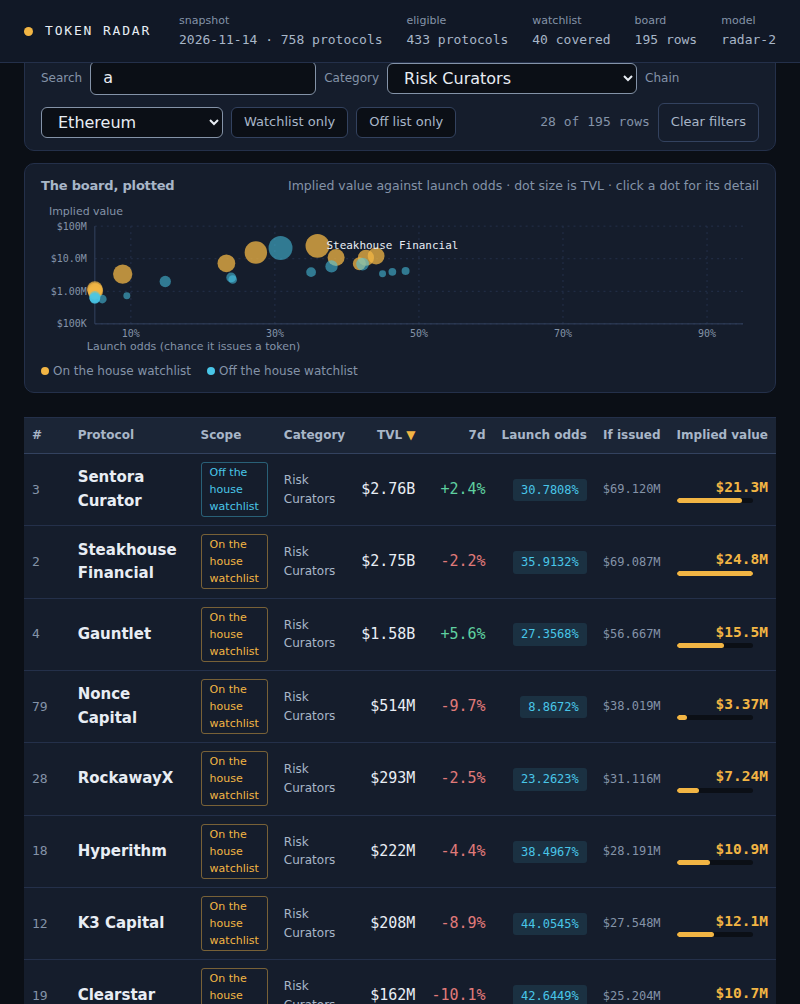
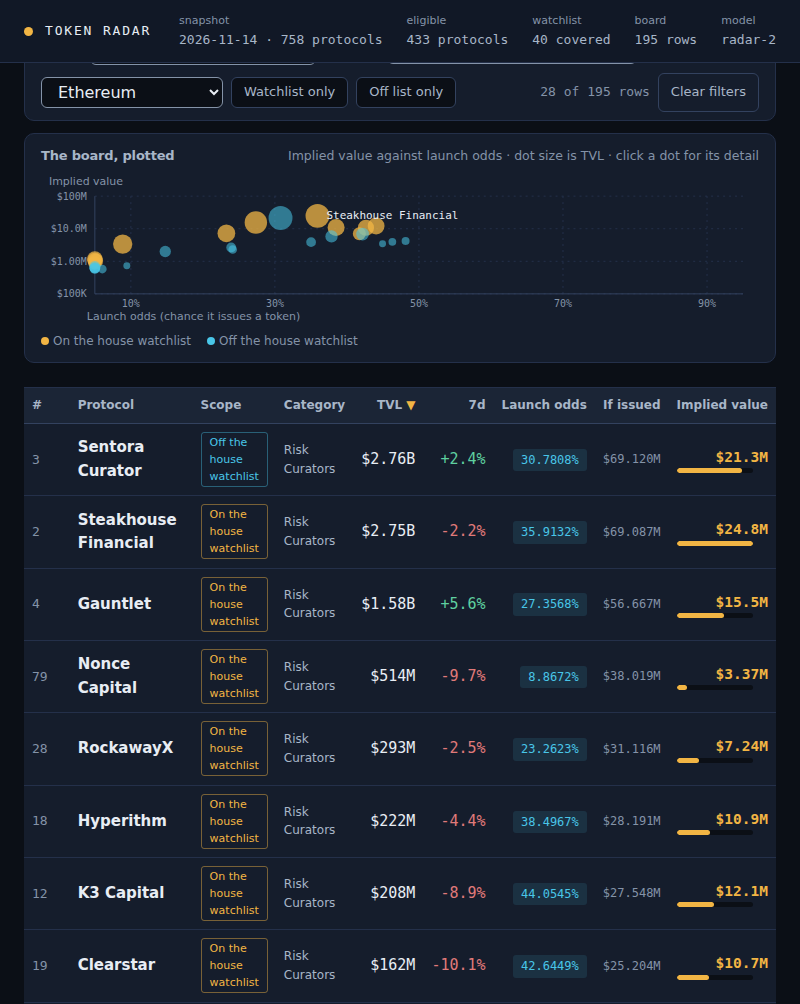
The filtered shot's fold ran through the last row's text
At the tabs' own scroll offset the fold at y=1004 cut through the last row's
GLYPHS -- rows 992 to 999 of the PNG were full of ink -- so the judge saw the
top of a row's figures and nothing of the rest, the same defect the detail
shot had and the same defect the cover had.

The rows are 72px tall at this width, so where the fold lands decides whether
the last row is whole or sliced. Scanned at 1px, offsets 20-28 and 30-37 all
land the fold on whitespace; 30-37 carry EIGHT whole rows where the tabs'
offset carried seven. The shot is now scrolled 30px past the tabs, so the
fold lands on the last row's bottom border and that row is whole -- rank,
name, all six figures and the value bar. All three shots now have zero lit
pixels on their last row.

Two more gates, with the shot's own data as the evidence:
  the filtered shot's figures are the board's own figures, unchanged by the
    filter                        28 rows are on both views; 0 disagree
  the filtered shot carries whole rows, so the judge can read their figures
    8 whole rows clear the fold of the 800x1004 frame

The first one matters because the filtered shot sorts by TVL while the cover
sorts by rank, so the two views show the same rows in a different order -- and
two frames of "the board" that disagreed would be worse than one. They do not
disagree: the shared rows are byte-identical across the two views.

Measured: 327 gates pass, 0 fail. The dossier is 65,513 bytes with 23 under the
[…]

diff --git a/MODEL.md b/MODEL.md
@@ -387,8 +387,27 @@ shot can do, since its cell is 510 wide.
 The detail shot is **clipped to the drawer and captured at a device scale above 1**, so the row's
 own numbers, its derivation and the plan's costs are legible instead of a whole board shrunk to
 nothing; the drawer's header is sticky, so the row's name stays on screen while the frame shows
-the plan. The board is shot 1280 wide so the table keeps every column, and the filtered view is
+the plan. The cover is shot 1440×900 so the table keeps every column, and the filtered view is
 800 wide, which is the narrowest width that keeps the hero in two columns *and* the table whole.
+
+**The two shots show the same row, on purpose.** The detail shot opens on the board's *first*
+row, Polymarket International, rank 1 of 195 — which is the top line of the cover. So the judge
+can read the cover's
+
+```
+$320M   -1.1%   70.5577%   $35.310M   $24.9M
+```
+
+and check it against the detail shot's derivation of the same row:
+
+```
+$320,193,439  ×  0.0840375303  ×  1.31223328  =  $35,310,000
+70.5577%  →  $24,900,000
+```
+
+The two frames agree figure for figure. The detail shot used to open on Gauntlet, rank 4 — a row
+the cover does not carry — so the cover and the drawer never met, and criterion 1's *"the
+screenshots and the code agree"* was something the judge had to take on trust rather than check.
 
 The clip is a hard edge, so **where the frame lands is measured, not chosen**: the drawer's
 sticky header is 82.4px tall, so a line of text is only readable between `scrollTop + 82.4` and
